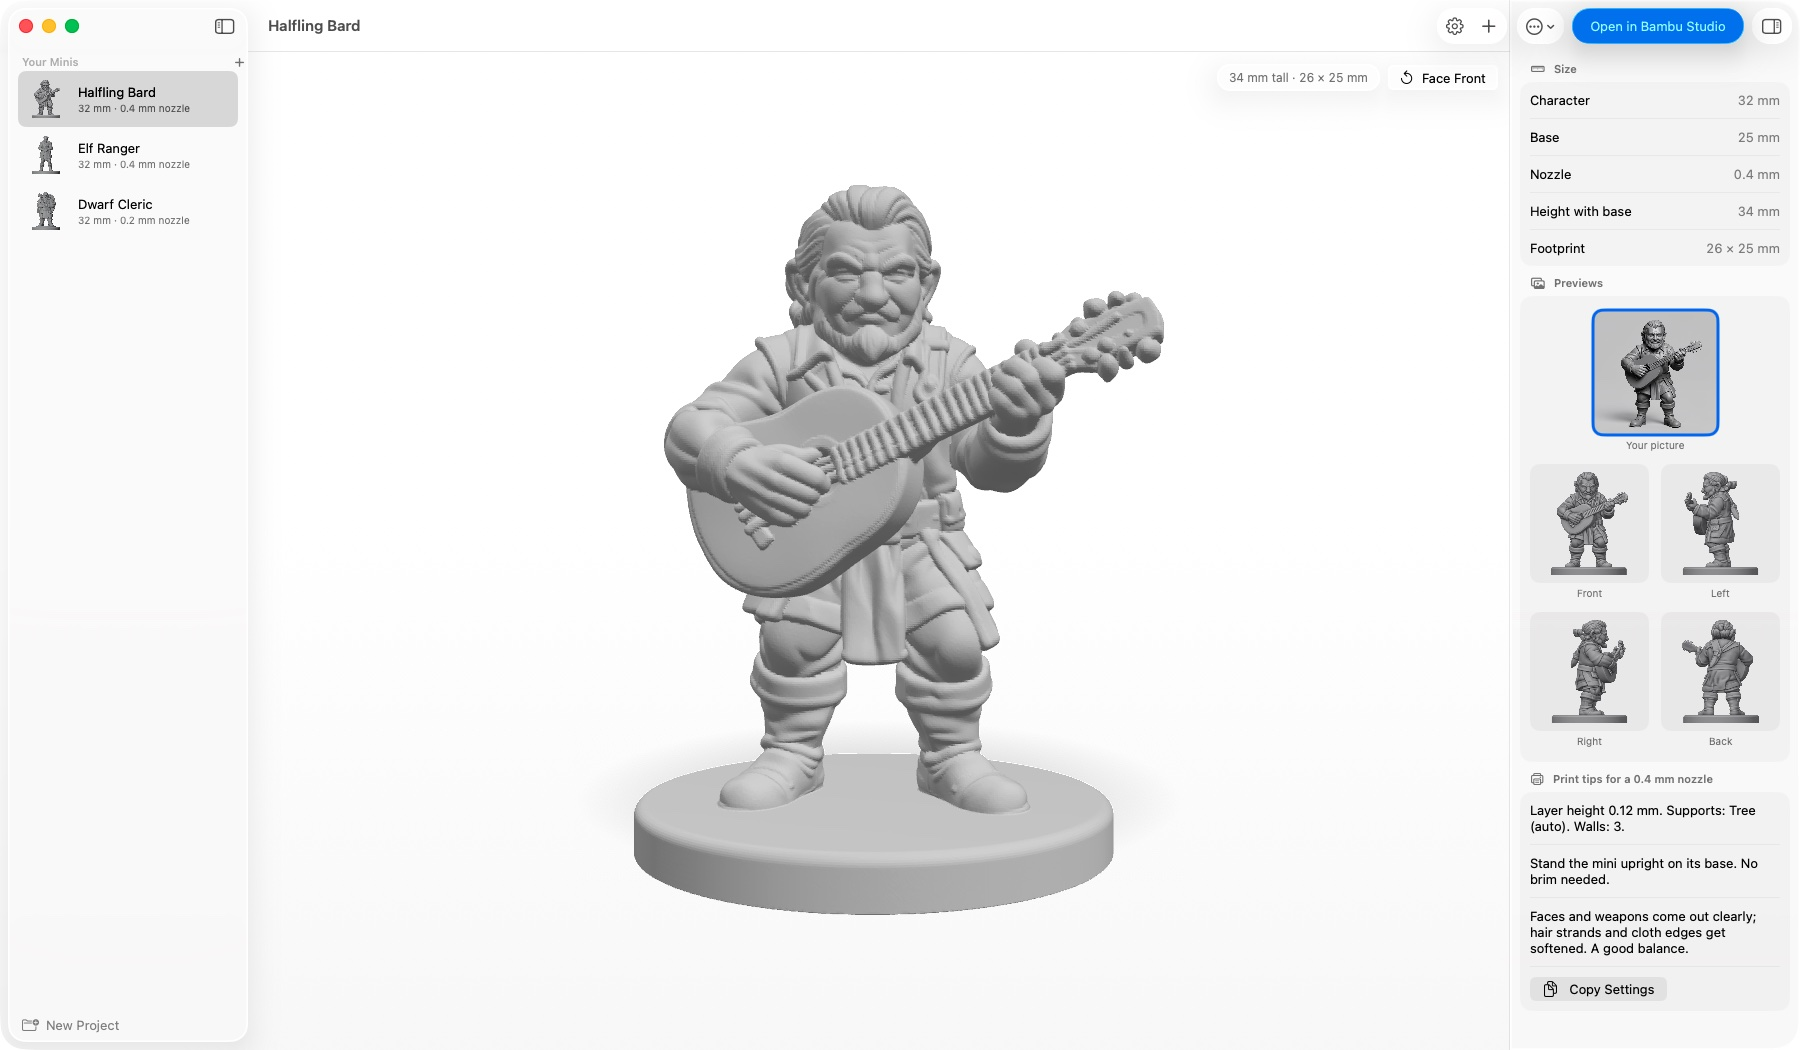
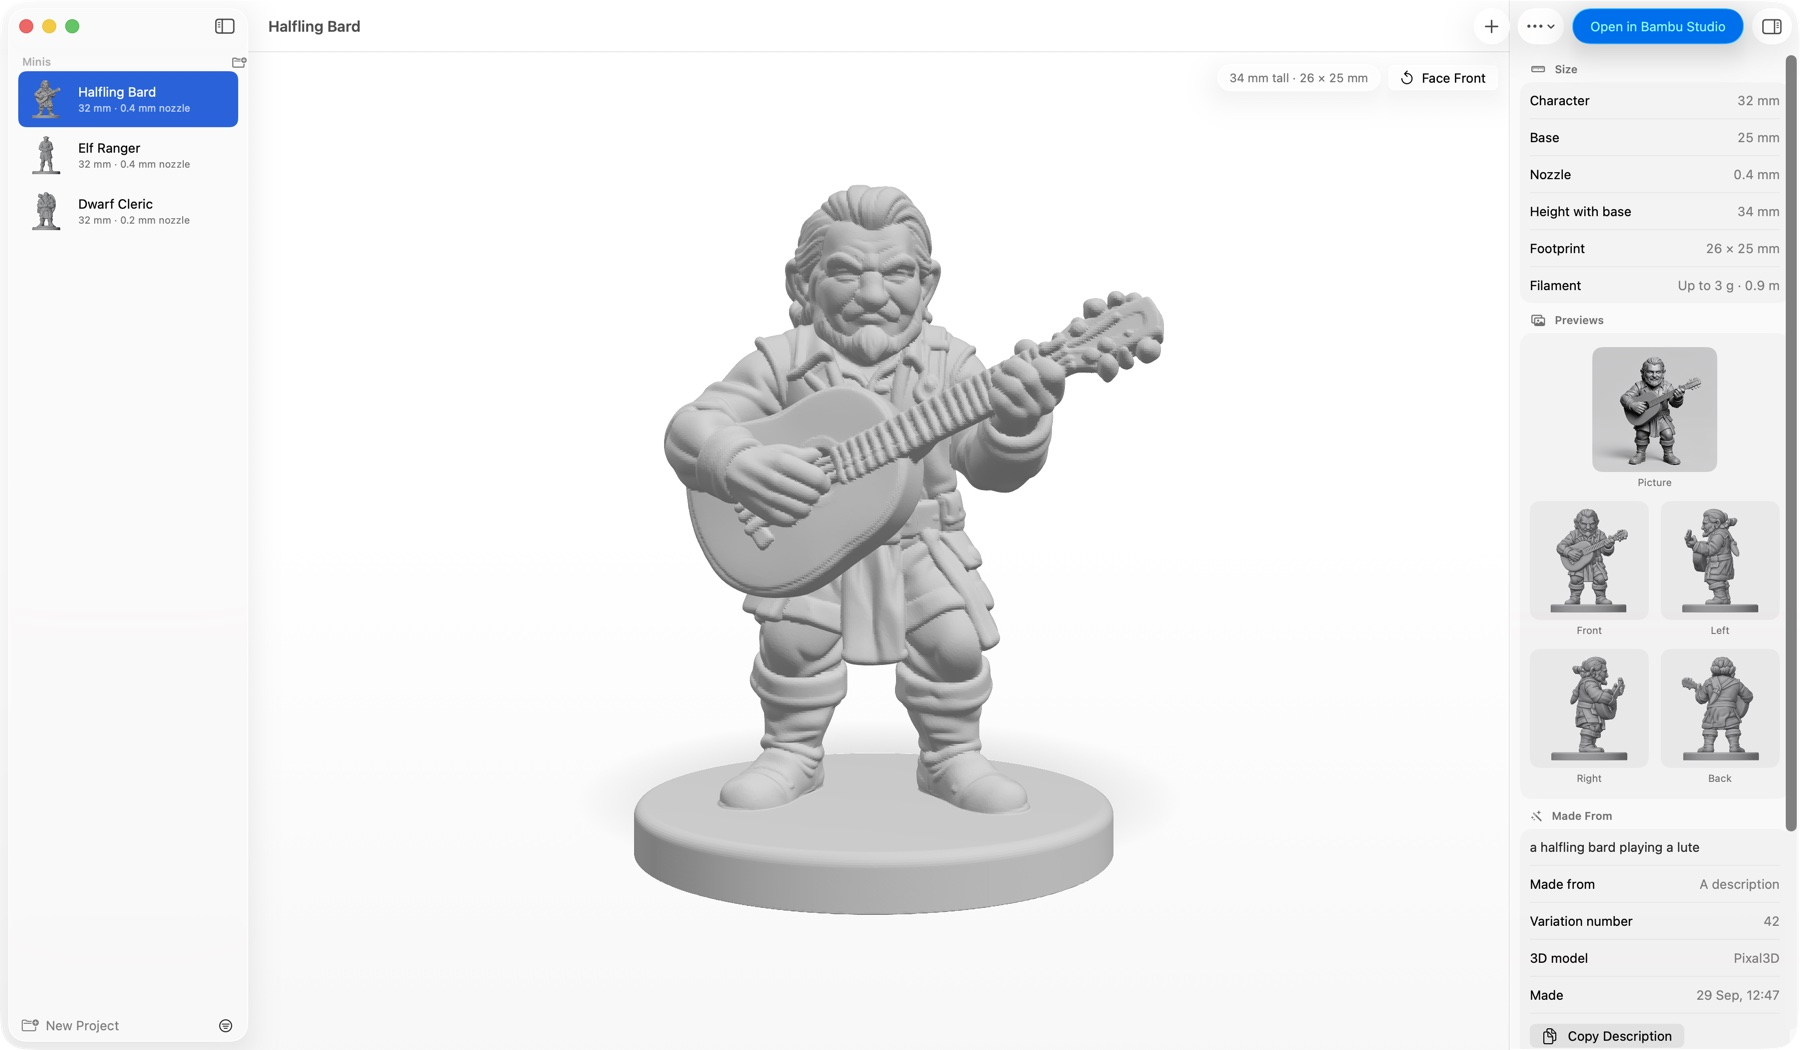
docs: README screenshot of the 0.8.0 mini page (#142)

diff --git a/README.md b/README.md
@@ -47,7 +47,7 @@ Everything runs on your own Mac: no accounts, no uploads, no subscriptions.</p>
 
 ## 🧙 Making a mini
 
-![Mimic: your minis on the left; a finished halfling bard in a 3D view in the middle; its size, previews and print tips in a panel on the right](docs/images/app.jpg)
+![Mimic: your minis on the left; a finished halfling bard in a 3D view in the middle; its size, filament, previews and how it was made in a panel on the right](docs/images/app.jpg)
 
 1. Press **New Mini** (⌘N), and choose what you're making: 🧙 **A character** (a tabletop mini) or
    🏺 **Anything else** (a teapot, a car, a chess piece).
